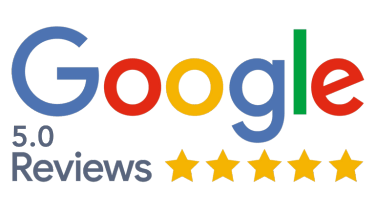
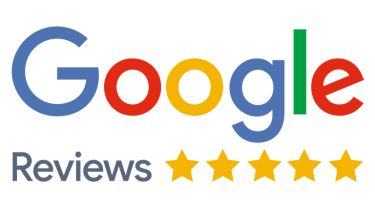
google reviews button

Changed region(s): [[0.0293, 0.5687, 0.1467, 0.7109], [0.0293, 0.7962, 0.0587, 0.8246]]

diff --git a/resources/views/home.blade.php b/resources/views/home.blade.php
@@ -22,19 +22,21 @@
           @foreach ($reviews as $review)
           
             <!-- Carousel Item -->
-            <div class="reviews-item w-full p-4 cursor-pointer" id="{{$review['order']}}-reviews" style="order: {{$review['order']}};">
+            <div class="reviews-item w-full p-4" id="{{$review['order']}}-reviews" style="order: {{$review['order']}};">
       
               <div class="flex flex-col justify-start items-center h-full p-6 gap-4 rounded-lg shadow-2xl bg-white">
     
-                <div class="flex w-full gap-8 items-start">
+                <div class="flex w-full gap-8 items-center">
                   
                   <img src="{{$review['image']}}" alt="Valentina Vucicic" class="h-20 w-20">
                   
-                  <div class="flex flex-col gap-2">
+                  <div class="flex flex-col">
     
                     <h2 class="font-bold">{{$review['name']}}</h2>
-            
-                    <h3 class="[&>i]:text-yellow-400 text-base"><i class="fa-solid fa-star"></i><i class="fa-solid fa-star"></i><i class="fa-solid fa-star"></i><i class="fa-solid fa-star"></i><i class="fa-solid fa-star"></i></h3>              
+                    
+                    <a href="{{$review['url']}}" target="_blank" class="w-fit">
+                      <img src="{{asset('/img/pages/home/reviews.webp')}}" alt="Google Reviews" height="64" width="114" class="object-cover">
+                    </a>
     
                   </div>
     
@@ -93,9 +95,11 @@
                 <img src="{{$review['image']}}" alt="Valentina Vucicic" height="80" width="80" class="h-20 w-20">
         
                 <h2 class="font-bold">{{$review['name']}}</h2>
-        
-                <h3 class="[&>i]:text-yellow-400 text-base"><i class="fa-solid fa-star"></i><i class="fa-solid fa-star"></i><i class="fa-solid fa-star"></i><i class="fa-solid fa-star"></i><i class="fa-solid fa-star"></i></h3>
-        
+
+                <a href="{{$review['url']}}" target="_blank" class="w-fit">
+                  <img src="{{asset('/img/pages/home/reviews.webp')}}" alt="Google Reviews" height="64" width="114" class="object-cover">
+                </a>
+                
                 <p>
                   @if ($language == 'pt')
                     {{$review['comentario']}}  

diff --git a/resources/views/components/navbar.blade.php b/resources/views/components/navbar.blade.php
@@ -73,13 +73,13 @@
                 @lang('menu.contact')
             </a>
 
-            <div class="flex flex-row gap-4 justify-start lg:p-0 lg:mt-0 mt-auto lg:w-fit w-full">
+            <div class="flex flex-row justify-start lg:p-0 lg:mt-0 mt-auto lg:w-fit w-full rounded-md">
 
-                <a title="@lang('menu.en.title')" href="{{route($current, ['locale' => ($locale == 'locale' || $locale == 'local') ? 'locale' : 'en'])}}" class="flex gap-2 items-center bg-white p-2 rounded-md">
+                <a title="@lang('menu.en.title')" href="{{route($current, ['locale' => ($locale == 'locale' || $locale == 'local') ? 'locale' : 'en'])}}" class="flex gap-2 items-center bg-white p-2 rounded-l-md">
                     <img src="{{asset('/img/flags/en.jpg')}}" alt="England Flag" height="24" width="32" class="object-cover rounded">
                 </a>
             
-                <a title="@lang('menu.pt.title')" href="{{route($current, ['locale' => ($locale == 'locale' || $locale == 'local') ? 'local' : 'pt'])}}" class="flex gap-2 items-center bg-white p-2 rounded-md">
+                <a title="@lang('menu.pt.title')" href="{{route($current, ['locale' => ($locale == 'locale' || $locale == 'local') ? 'local' : 'pt'])}}" class="flex gap-2 items-center bg-white p-2 rounded-r-md">
                     <img src="{{asset('/img/flags/pt.jpg')}}" alt="Portugal Flag" height="24" width="32" class="object-cover rounded">
                 </a>
 

diff --git a/database/migrations/2024_04_05_113004_update_reviews_table.php b/database/migrations/2024_04_05_113004_update_reviews_table.php
@@ -1,0 +1,28 @@
+<?php
+
+use Illuminate\Database\Migrations\Migration;
+use Illuminate\Database\Schema\Blueprint;
+use Illuminate\Support\Facades\Schema;
+
+return new class extends Migration
+{
+    /**
+     * Run the migrations.
+     */
+    public function up(): void
+    {
+        Schema::table('reviews', function (Blueprint $table) {
+            $table->string('url')->nullable()->after('comentario');
+        });
+    }
+
+    /**
+     * Reverse the migrations.
+     */
+    public function down(): void
+    {
+        Schema::table('reviews', function (Blueprint $table) {
+          $table->dropColumn('url');
+        });
+    }
+};
